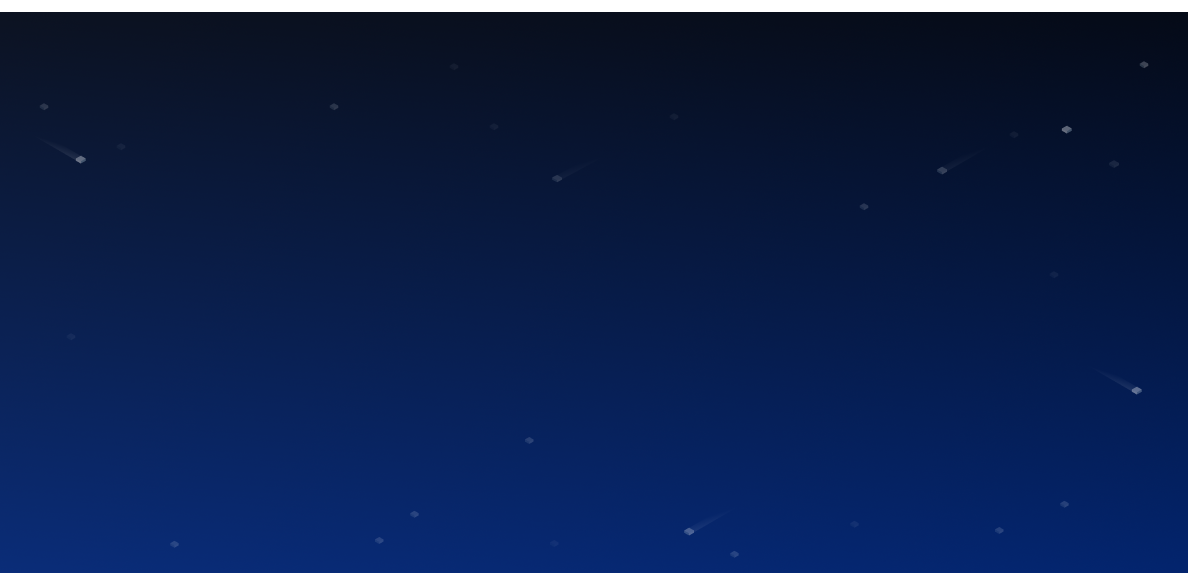
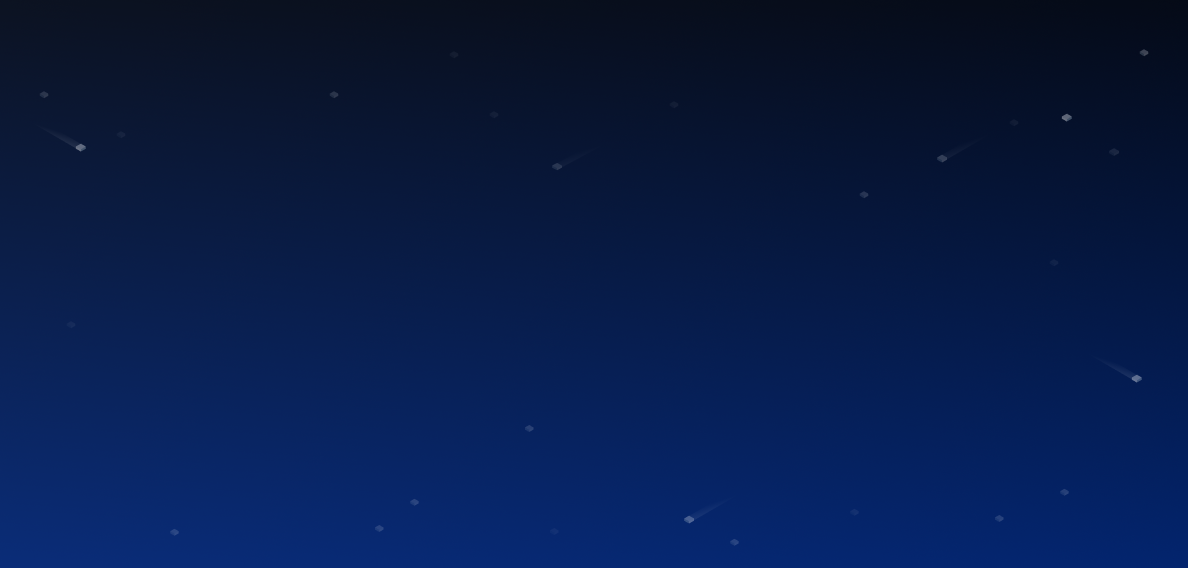
fix background

diff --git a/static/css/style.css b/static/css/style.css
@@ -66,7 +66,7 @@ html,body {
     height: 100%;
     margin: 0px;
     padding: 0px;
-    overflow-x: hidden; 
+    overflow-x: hidden;
 }
 
 html * {
@@ -371,6 +371,10 @@ Navigation
 @media only screen and (min-width: 321px) and (max-width: 767px){
   .section-to-collapse{
     display: none;
+  }
+
+  .text-xs-center {
+    text-align: center;
   }
 }
 
@@ -845,8 +849,11 @@ canvas {
 	margin-bottom: 1em;
 }
 .header-bg {
-  background: url("../img/Theez-Starz.png") no-repeat center center fixed;
   background-size: cover;
+  background-image: url("../img/Theez-Starz.png");
+  background-repeat: repeat-y;
+  background-position: center top;
+  transform: scale(1.1);
 }
 
 .careers-header-bg {
@@ -3442,7 +3449,7 @@ vertical-align: bottom;
   margin-bottom: 20px;
   margin-right:10px;
   }
-  
+
   .timeline-horizontal .timeline-item .timeline-panel-genesis:before {
   top: auto;
   bottom: -16px;
@@ -3735,7 +3742,7 @@ color: #FFFFFF;
   padding-right:10px;
 }
 
-.hero-heading{ 
+.hero-heading{
 font-family: 'Poppins';
 font-style: normal;
 font-weight: bold;
@@ -4019,7 +4026,7 @@ font-weight: bold;
 font-size: 32px;
 line-height: 38px;
 text-align: center;
-color: #000000;    
+color: #000000;
 margin-top:-20px;
 }
 
@@ -4180,7 +4187,7 @@ margin-top: -6px;
 }
 
 .main-sno-wrapper{
-  height: 586px; 
+  height: 586px;
 }
 
 .node-img{
@@ -4200,7 +4207,7 @@ color: #FFFFFF;
 
 @media only screen and (max-width: 320px) {
   .main-sno-wrapper{
-    height: 1000px; 
+    height: 1000px;
   }
 
   .node-img{
@@ -4240,7 +4247,7 @@ color: #FFFFFF;
 
 @media only screen and (min-width: 321px) and (max-width: 767px){
   .main-sno-wrapper{
-    height: 1000px; 
+    height: 1000px;
   }
 
   .node-img{
@@ -4278,7 +4285,7 @@ color: #FFFFFF;
     margin-left:20px;
     }
     .main-sno-wrapper{
-      height: 600px; 
+      height: 600px;
     }
 }
 
@@ -4427,7 +4434,7 @@ color: #FFFFFF;
     margin-left:120px;
   }
 }
-  
+
   @media only screen and (min-width: 321px) and (max-width: 767px){
   .stay-in-touch{
     margin-left:120px;
@@ -4570,21 +4577,21 @@ color: #FFFFFF;
   font-weight: bold;
   font-size: 32px;
   line-height: 40px;
-  margin-top: 100px;  
+  margin-top: 100px;
 }
 
 .careers-subheading{
   font-weight: 300;
   font-size: 18px;
   line-height: 24px;
-  margin-top: 30px;  
+  margin-top: 30px;
 }
 
 .careers-heading-cta{
   font-weight: 800;
   font-size: 14px;
   line-height: 18px;
-  margin-top: 45px;  
+  margin-top: 45px;
 }
 
 .careers-cta-caret{
@@ -4622,7 +4629,7 @@ color: #FFFFFF;
   font-style: normal;
   font-weight: 800;
   font-size: 12px;
-  line-height: 22px;  
+  line-height: 22px;
   text-align: center;
   color: #333333;
 }
@@ -4632,7 +4639,7 @@ color: #FFFFFF;
   font-style: normal;
   font-weight: 300;
   font-size: 14px;
-  line-height: 23px;  
+  line-height: 23px;
   text-align: center;
   color: #333333;
 }

diff --git a/layouts/partials/home/helpingDevs.html b/layouts/partials/home/helpingDevs.html
@@ -4,30 +4,30 @@
             <div class="col-xs-12 text-center mt-5">
                 <h1 class="helpDevs-header">Helping Developers Weave the<br> Fabric of Tomorrow’s Internet</h1>
             </div>
-            <div class="row mt-5" style="display:flex;flex-wrap: wrap;margin-top:100px;">
+            <div class="row mt-5" style="margin-top:100px;">
             {{range where .Site.Pages ".Params.class" "whytardigrade" | first 4}}
-              <div class="col-xs-4 col-xs-offset-1 col-md-6 col-md-offset-0 col-lg-3 text-left mt-5 p-3 safari-alignment">
+              <div class="col-xs-12 col-sm-4 col-sm-offset-1 col-md-6 col-md-offset-0 col-lg-3 mt-5 p-3 safari-alignment text-xs-center">
                 <img class="img-fluid" src="{{.Params.img}}" height="{{.Params.h}}" width="{{.Params.w}}"/>
                 <h4 class="helpDevs-subheading">
                   {{.Params.heading}}
                 </h4>
                 <p class="helpDevs-desc">
-                  {{.Params.desc}}                
+                  {{.Params.desc}}
                 </p>
               </div>
             {{end}}
             </div>
             <div class="row" style="margin-top:30px;">
-                <div class="col-xs-4 col-xs-offset-1 col-md-6 col-md-offset-0 col-lg-3 col-lg-offset-3 text-left mt-5 p-3">
+                <div class="col-xs-12 col-sm-4 col-sm-offset-1 col-md-6 col-md-offset-0 col-lg-3 col-lg-offset-3 text-xs-center mt-5 p-3">
                     <img class="img-fluid" src="img/cash.png" height="40" width="41"/>
               <h4 class="helpDevs-subheading">
                   Affordable
               </h4>
               <p class="helpDevs-desc">
-                  Predictable, flat pricing. S3-compatible object storage that is a fraction of the price.             
+                  Predictable, flat pricing. S3-compatible object storage that is a fraction of the price.
               </p>
             </div>
-            <div class="col-xs-4 col-xs-offset-1 col-md-6 col-md-offset-0 col-lg-3 text-left mt-5 p-3">
+            <div class="col-xs-12 col-sm-4 col-sm-offset-1 col-md-6 col-md-offset-0 col-lg-3 text-xs-center mt-5 p-3">
                 <img class="img-fluid" src="img/simple.png" height="40" width="57"/>
                 <h4 class="helpDevs-subheading">
                     Easy to Use

diff --git a/layouts/index.html b/layouts/index.html
@@ -6,7 +6,7 @@
 <body class="home">
   {{partial "home/Banner" .}}
   <section class="header header-bg">
-      <div class="header-bg"></div>
+  <div class="header-bg"></div>
   {{partial "home/navbar" .}}
   {{partial "home/Hero" .}}
   {{partial "home/howitworks" .}}
@@ -20,7 +20,7 @@
   {{partial "home/Pricing" .}}
   {{partial "home/UseCases" .}}
   {{partial "home/StayUpToDate" .}} -->
-  {{partial "home/Milestones" .}}  
+  {{partial "home/Milestones" .}}
   <!-- {{partial "home/Waitlists" .}}
   {{partial "home/Partners" .}} -->
   {{partial "footer" .}}
